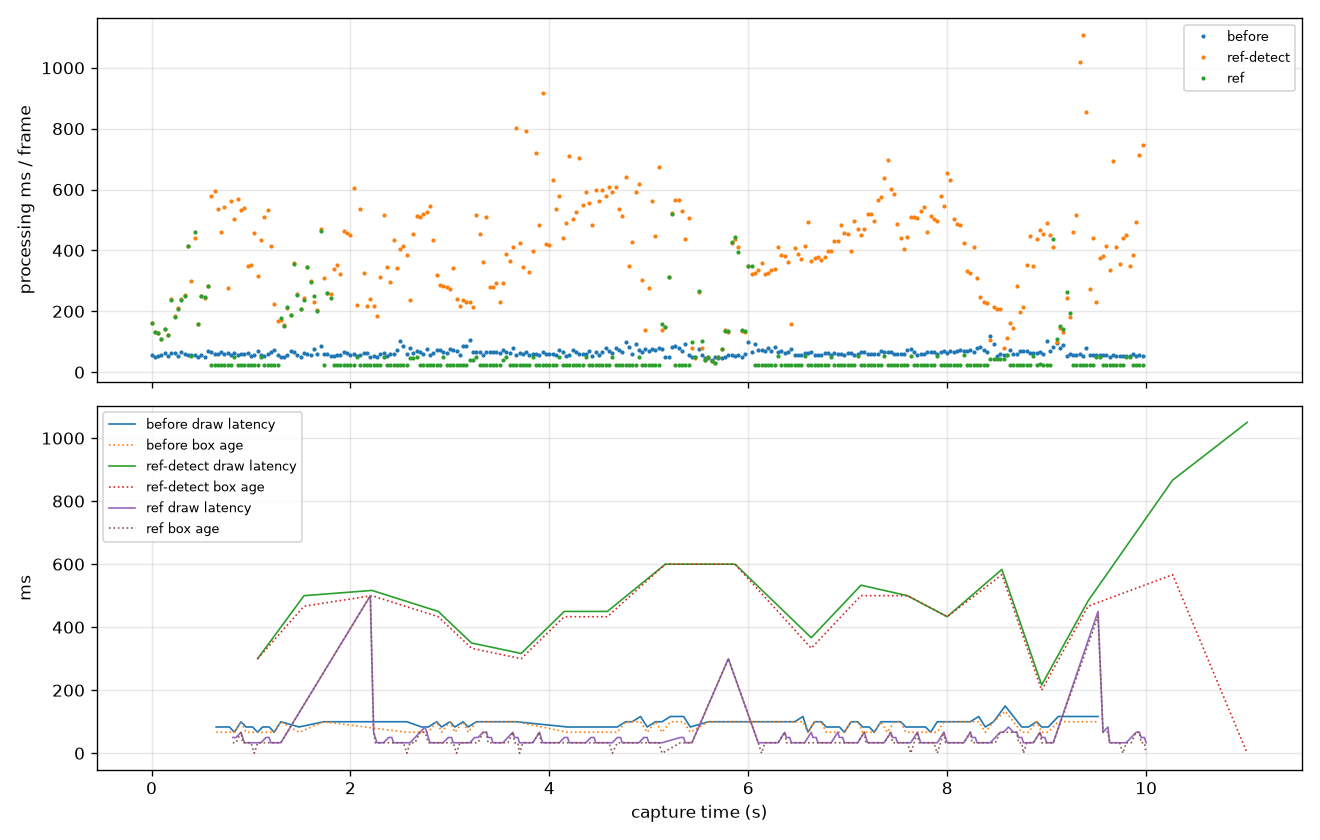
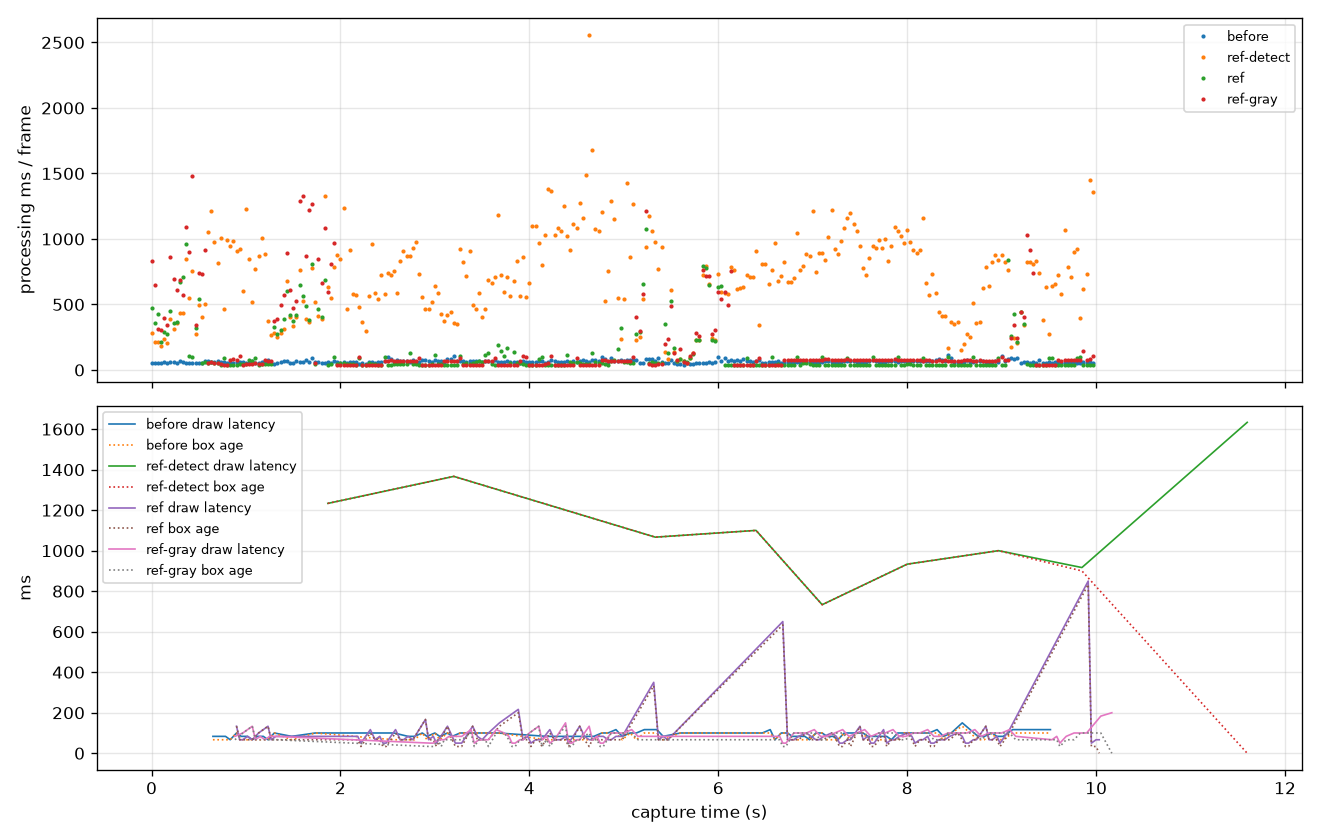
test(ocr): sample row steps between letters and record the grey-only failure
Row-step samples now sit in the ink-free gaps between letters, and the
aliasing check also rejects half-cell shifts. Tracking geometry failures on
the continuous recording drop to 1.7%. Reading the row steps from luminance
alone fails on every labelled frame (fits settle half a row off), so a fast
transport must keep an R-G plane.

diff --git a/scripts/ocr/matrix_cv_reference.py b/scripts/ocr/matrix_cv_reference.py
@@ -48,6 +48,7 @@ import numpy as np
 
 COLS, ROWS = 10, 7
 WORK = 960  # long side of the analysed image
+GRAY_ONLY = False  # --gray-only: what a grey-only transport would leave
 
 
 def apply(H, uv):
@@ -68,6 +69,9 @@ class Frame:
         f = small.astype(np.float32)
         self.gray = 0.299 * f[..., 2] + 0.587 * f[..., 1] + 0.114 * f[..., 0]
         self.chroma = f[..., 2] - f[..., 1]  # pink rows are positive
+        if GRAY_ONLY:
+            # Pink rows are darker than white ones in luminance as well.
+            self.chroma = -self.gray
         self.u8 = np.clip(self.gray, 0, 255).astype(np.uint8)
         self.h, self.w = self.gray.shape
 
@@ -142,10 +146,14 @@ def edge_points(frame, H, samples, radius):
 
 def line_specs():
     """Model lines: (name, axis value, is_horizontal, samples)."""
-    across_u = np.arange(0.25, COLS, 0.5)
+    # Sample row steps in the ink-free gaps between letters, never through them.
+    across_u = np.array([0.08] + [c + d for c in range(1, COLS) for d in (-0.07, 0.07)] + [COLS - 0.08])
     specs = [("header-top", -HEADER, True, [(u, -HEADER, 0, 1, "gray", -1) for u in across_u])]
     for j in range(ROWS + 1):
         sign = 1 if j % 2 == 0 else -1  # rows 1, 3, 5, 7 are pink
+        if GRAY_ONLY and j == 0:  # dark header above pink row 1: a luminance rise
+            specs.append(("row-0", 0, True, [(u, 0, 0, 1, "gray", 1) for u in across_u]))
+            continue
         specs.append((f"row-{j}", j, True, [(u, j, 0, 1, "chroma", sign) for u in across_u]))
     rows_v = np.arange(0.25, ROWS, 0.5)
     header_v = np.linspace(-HEADER + 0.2, -0.2, 3)
@@ -268,7 +276,10 @@ def column_gaps(frame, H):
 
 def anchored(frame, H):
     base = anchors(frame, H)
-    others = [anchors(frame, H, du, dv) for du in (-1, 0, 1) for dv in (-1, 0, 1) if du or dv]
+    # Whole-cell shifts catch off-by-one indexing; half-cell shifts catch a grid
+    # locked between the printed boundaries.
+    shifts = [-1, -0.5, 0, 0.5, 1]
+    others = [anchors(frame, H, du, dv) for du in shifts for dv in shifts if du or dv]
     return base, base - max(others)
 
 
@@ -595,13 +606,17 @@ def calibrate(frames, labels):
 
 
 def main():
+    global GRAY_ONLY, WORK
     p = argparse.ArgumentParser(description=__doc__, formatter_class=argparse.RawDescriptionHelpFormatter)
     p.add_argument("frames", type=Path)
     p.add_argument("--calibrate", type=Path, help="labels JSON: print header/label constants")
     p.add_argument("--fps", type=float, default=30)
     p.add_argument("--refit-every", type=int, default=8)
     p.add_argument("--detect-only", action="store_true", help="independent detect+fit on every frame")
+    p.add_argument("--gray-only", action="store_true", help="use luminance for the row steps too")
+    p.add_argument("--work", type=int, default=960, help="long side of the analysed image")
     args = p.parse_args()
+    GRAY_ONLY, WORK = args.gray_only, args.work
     cv2.setNumThreads(1)
     if args.calibrate:
         calibrate(args.frames, json.loads(args.calibrate.read_text()))

diff --git a/scripts/ocr/matrix_track_report.py b/scripts/ocr/matrix_track_report.py
@@ -280,7 +280,7 @@ def main():
         misses = [r["frame"] for r in rows if r["final"] is None and any(r["frame"] in l for l in labels.values())]
         worst = sorted((r for r in rows if r.get("errors")), key=lambda r: -max(r["errors"].values()))
         chosen.update(misses[: args.overlays // 2])
-        chosen.update(r["frame"] for r in worst[: args.overlays - len(chosen)])
+        chosen.update(r["frame"] for r in worst[: max(0, args.overlays - len(chosen))])
         directory = args.out / f"overlays-{name}"
         directory.mkdir(exist_ok=True)
         for r in rows:

diff --git a/docs/verification/matrix-geometry.md b/docs/verification/matrix-geometry.md
@@ -79,24 +79,35 @@ Displayed corners use a One Euro filter; crops use the unsmoothed fit.
 
 | continuous, 300 frames | current Rust | reference, detect each frame | reference, tracking |
 |---|---:|---:|---:|
-| located frames | 177 (59 %) | 219 (73 %) | 250 (83 %) |
-| labelled: missed / wrong ¼ cell / wrong ½ cell | 20 / 15 / 9 | 3 / 0 / 0 | 0 / 4 / 0 |
-| **geometry failure rate** | **30.2 %** | **2.6 %** | **3.4 %** |
-| corner error p50 / p95 (cells) | 0.068 / 2.57 | 0.055 / 0.13 | 0.055 / 0.17 |
-| per-frame cost p50 | 62 ms (incl. 35 ms JPEG decode) | Python, not comparable | 24 ms Python (incl. 20 ms resize) |
-| simulated located boxes / s | 9.1 | — | 21.5 |
-| simulated draw latency p50 / p95 | 100 / 117 ms | — | 33 / 67 ms |
+| located frames | 177 (59 %) | 211 (70 %) | 251 (84 %) |
+| labelled: missed / wrong ¼ cell / wrong ½ cell | 20 / 15 / 9 | 7 / 0 / 0 | 0 / 2 / 0 |
+| **geometry failure rate** | **30.2 %** | **6.0 %** | **1.7 %** |
+| corner error p50 / p95 (cells) | 0.068 / 2.57 | 0.051 / 0.12 | 0.057 / 0.13 |
+| frames tracked / refitted / detected | — | — / — / 211 | 212 / 29 / 10 |
 
 | sampled, 119 frames, every frame independent | current Rust | reference |
 |---|---:|---:|
-| located frames | 44 | 63 |
+| located frames | 44 | 62 |
 | labelled: missed / wrong ¼ cell | 26 / 6 | 11 / 0 |
 | **geometry failure rate** | **71.1 %** | **24.4 %** |
+| corner error p50 / p95 (cells) | 0.091 / 2.90 | 0.047 / 0.14 |
 
-The reference never produced a wrong grid when detecting from scratch; its
-remaining misses are frames where the header leaves the frame or blur removes
-the row steps. Tracking keeps 83 % of continuous frames located, and its four
-¼-cell errors are drift between refits (largest 0.4 cell).
+Detection from scratch never produced a wrong grid. Its misses are frames where
+the header leaves the picture or blur removes the row steps; tracking carries
+the grid through those. The two tracked ¼-cell errors are drift between refits.
+
+Timing: the current pipeline's 62 ms p50 includes 35 ms of JPEG decode. The
+reference is Python and its committed timings were taken with three replays
+running at once (a lone run tracks at 24 ms p50, 20 ms of it resizing); they
+are not a performance target. Timing claims belong to the Rust implementation.
+
+**Row steps need colour.** Sampling row steps in the ink-free gaps between
+letters (instead of through them) took tracking from 3.4 % to 1.7 %. With the
+same code reading the row steps from luminance only (`--gray-only`), every
+labelled frame came out wrong: pink and white rows differ by only ~25 grey
+levels next to thin dark row lines, and the fit settles about half a row off
+while still passing every gate (100 % failure, p50 0.43 cell). The fast
+transport therefore has to keep a colour-difference plane, not luminance alone.
 
 Replay (paths are local):
 
